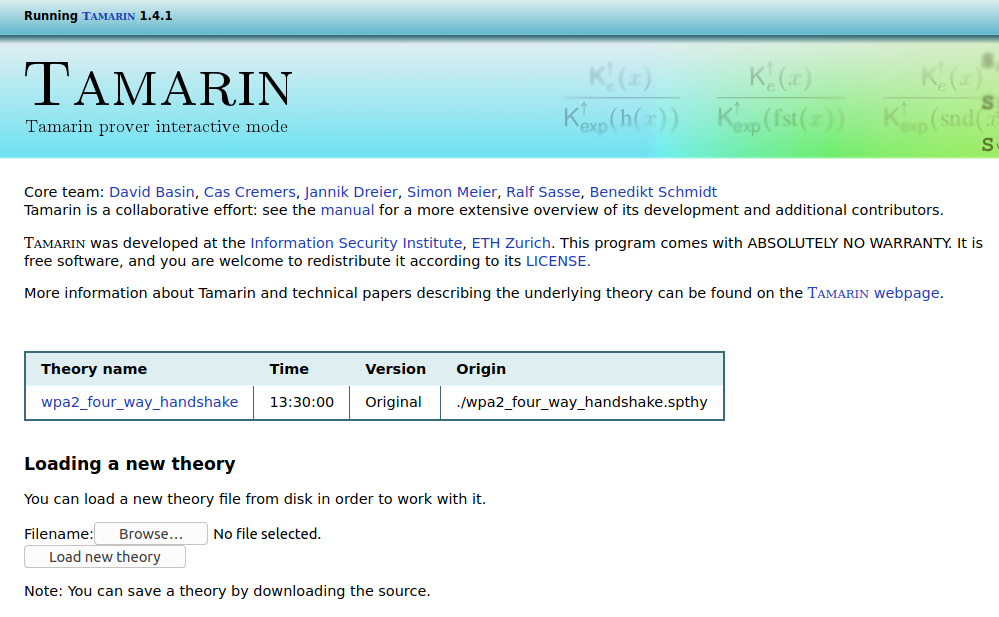
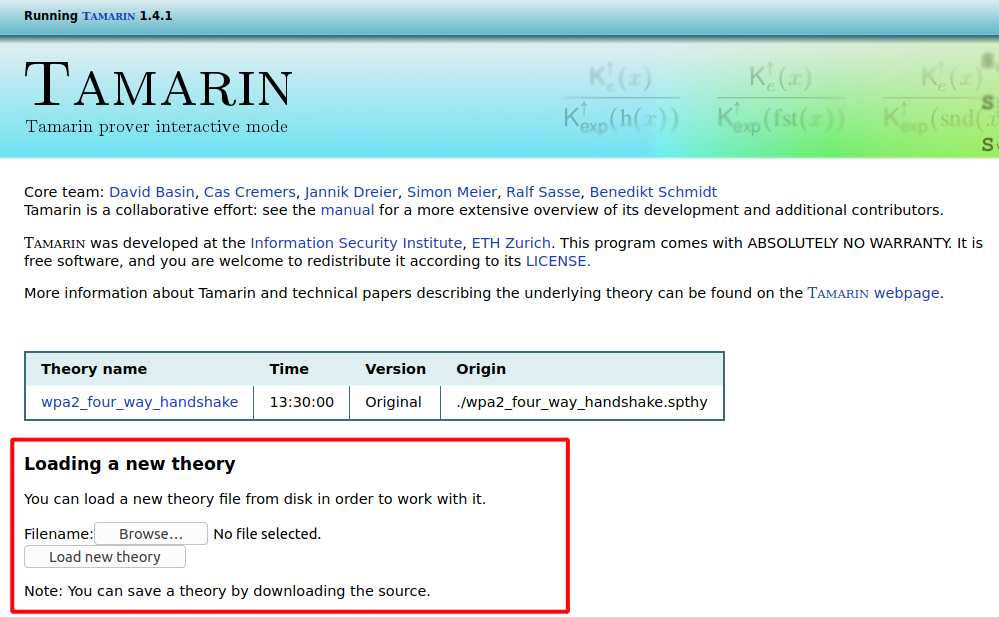
Changed images and fine-tuning.

Changed region(s): [[0.0, 0.7083, 0.5896, 1.0]]

diff --git a/README.md b/README.md
@@ -4,33 +4,33 @@ This repository contains all files and explanations for the USENIX artifact eval
 
 In our paper, we discuss a formal model of the WPA2 protocol which we created with the automated-reasoning tool [Tamarin](https://tamarin-prover.github.io/). As claimed in our paper, the proofs for most lemmas defined in our formal model (all except for three) can be automatically found with Tamarin. 
 
-In this repository, we provide a virtual-machine image (for VirtualBox) that contains a Tamarin installation and related scripts so that reviewers can reproduce these proofs and check their validity. Moreover, the repository also contains the manually created proofs so that reviewers can check their validity too. Below, we describe all the necessary steps to perform the evaluation.
+In this repository, we provide a virtual-machine image (for VirtualBox) that contains a Tamarin installation and related scripts so that reviewers can reproduce the proofs and check their validity. Moreover, the repository also contains the manually created proofs so that reviewers can check their validity too. Below, we describe all the necessary steps to perform the evaluation.
 
 # Requirements
 
-The evaluation of our artifact requires the VirtualBox virtualization software. The machine has a maximum memory of 14 GB—a machine with 16 GB of memory should therefore be enough for performing the evaluation.
+The evaluation of our artifact requires the [VirtualBox](https://www.virtualbox.org/) virtualization software. The virtual-machine image we provide below has a maximum memory of 14 GB—a machine with 16 GB of memory should therefore be enough for performing the evaluation.
 
 # Steps to Evaluate the Artifact
 
 ## Downloading the VirtualBox Image
 
-You can download our VirtualBox image via the following link: [VirtualBox Image for Submission 653](https://dl.cispa.saarland/s/m7KQ3GdQ9E4jNry).
+You can download our VirtualBox image via the following link: [VirtualBox Image for Submission 653](https://dl.cispa.saarland/s/m7KQ3GdQ9E4jNry/download).
 
 ## Generating the Proofs with Tamarin
 
-To generate the proofs for all the lemmas of our formal model proceed as follows:
+To generate the proofs for all the lemmas of our formal model, proceed as follows:
 
-1. Start the Virtual Machine (the Ubuntu operating system should not ask you for a password; in case it does, use the username *usenix_653* and the password *usenix*).
+1. Start the Virtual Machine (the operating system should not ask you for a username or password; in case it does, use the username *usenix_653* and the password *usenix*).
 
-2. Open a terminal and go to the directory **~/Code/wpa2_model** (Command: `cd ~/Code/wpa2_model`).
+2. Open a terminal and go to the directory *~/Code/wpa2_model* (Command: `cd ~/Code/wpa2_model`).
 
-3. The formal model is defined in the file **~/Code/wpa2_model/wpa2_four_way_handshake.m4**. To generate the proofs, execute the script **~/Code/wpa2_model/proof_generation/generate_proofs.sh** (Command: `proof_generation/generate_proofs.sh`). Note that it is important to call this script from the directory **~/Code/wpa2_model** and not from some other directory.
+3. The formal model is defined in the file *~/Code/wpa2_model/wpa2_four_way_handshake.m4*. To generate the proofs, execute the script *~/Code/wpa2_model/proof_generation/generate_proofs.sh* (Command: `proof_generation/generate_proofs.sh`). Note that it is important to call this script from the directory *~/Code/wpa2_model* and not from some other directory.
 
-4. The proofs for the lemmas will now be generated. The status of each lemma is printed to the terminal. Overall, this should take around one hour on a machine with 16 GB of memory—this is a bit faster than the original experiments in our paper because of reviewer suggestions we included after receiving the initial reviews. (Note that our script calls Tamarin via the tool [UT Tamarin](https://github.com/benjaminkiesl/ut_tamarin); UT Tamarin is a wrapper for Tamarin that allows the convenient generation of multiple proofs).
+4. The proofs for the lemmas will now be generated. The status of each lemma is printed to the terminal. Overall, this should take around one hour on a machine with 16 GB of memory—this is a bit faster than the original experiments described in our paper, because we included reviewer suggestions that led to a decrease in runtime. (Note that our script calls Tamarin via the tool [UT Tamarin](https://github.com/benjaminkiesl/ut_tamarin); UT Tamarin is a wrapper for Tamarin that allows the convenient generation of multiple proofs).
 
-When the script is finished, all automatically generated proofs can be found in the directory **~/Code/wpa2_model/automatic_proofs**. The manual proofs (there are three) can be found in the directory **~/Code/wpa2_model/manual_proofs**. 
+When the script is finished, all automatically generated proofs can be found in the directory *~/Code/wpa2_model/automatic_proofs*. The manual proofs (there are three) can be found in the directory *~/Code/wpa2_model/manual_proofs*. 
 
-There is exactly one file per lemma, and each file is named after the corresponding lemma. For example, the proof for the lemma *supplicant_ptk_is_secret* can be found in the file **~/Code/automatic_proofs/supplicant_ptk_is_secret.spthy**.
+There is exactly one file per lemma, and each file is named after the corresponding lemma. For example, the proof for the lemma *supplicant_ptk_is_secret* can be found in the file *~/Code/automatic_proofs/supplicant_ptk_is_secret.spthy*.
 
 Each proof file contains the whole formal model as well as all the lemmas. Only the lemma for which a proof was generated also has a corresponding proof in the file (for the other lemmas, no proof is in the file).
 
@@ -38,19 +38,19 @@ Each proof file contains the whole formal model as well as all the lemmas. Only 
 
 To inspect proofs, you can use the so-called *interactive mode* of the Tamarin prover. The interactive mode can be started as follows:
 
-1. Call the command `tamarin-prover interactive .` from within the directory **~/Code/wpa2_model**.
+1. Call the command `tamarin-prover interactive .` from within the directory *~/Code/wpa2_model*.
 
-2. Start the Firefox browser and open the URL http://localhost:3001 (note that the bookmark *Tamarin Interactive* in Firefox's bookmarks tab also links to that URL).
+2. Start the Firefox browser and open the URL http://localhost:3001 (note that the bookmark **Tamarin Interactive** in Firefox's bookmarks tab also links to that URL).
 
-3. Load a proof file by clicking *Browse...*, then choosing one of the proofs from the folder **~/Code/wpa2_model/automatic_proofs** and then clicking *Load new theory*.
+3. Load a proof file by clicking **Browse...**, then choosing one of the proofs from the folder **~/Code/wpa2_model/automatic_proofs** and then clicking **Load new theory**:
 
 ![Load a Proof File](images/load_theory.png)
 
-4. The proof file should now show up in the list of lemmas (see below). By clicking on it, you can open the file. Note that this can take a while for larger proofs.
+4. The proof file should now show up in the list of lemmas (see below). By clicking on the theory name for a given file, you can open the file. Note that this can take a while for larger proofs:
 
 ![Open a Proof File](images/open_theory.png)
 
-5. Once a proof file has been loaded successfully, the list of lemmas is shown on the left of the page. Scroll to the corresponding lemma to see its proof. If a proof is colored green and ends with *qed*, it means that Tamarin could successfully check the correctness of the proof.
+5. Once a proof file has been loaded successfully, the list of lemmas is shown on the left of the page. Scroll to the corresponding lemma to see its proof. If a proof is colored green and ends with *qed*, it means that Tamarin could successfully check the correctness of the proof:
 
 ![Inspect a Proof](images/proof_inspection.png)
 
